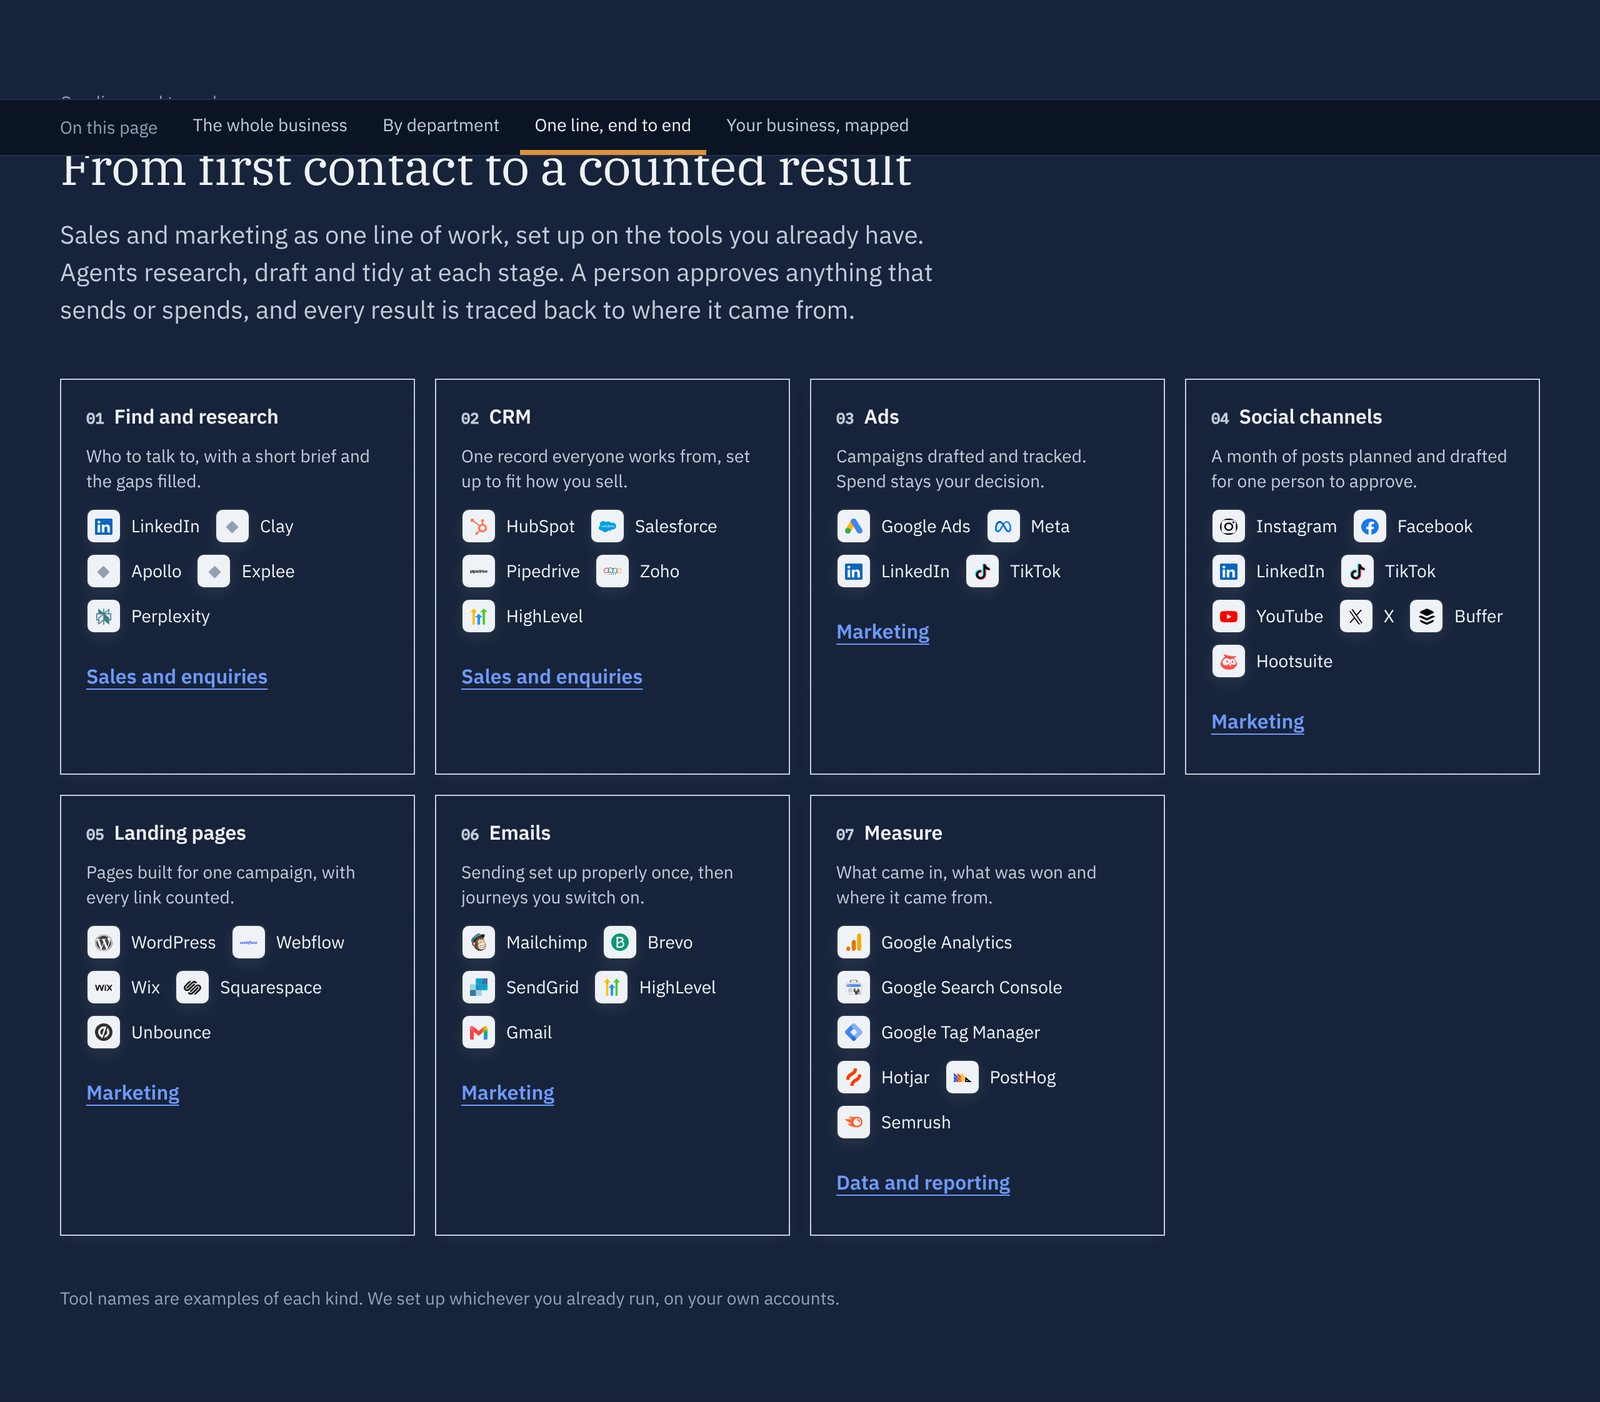
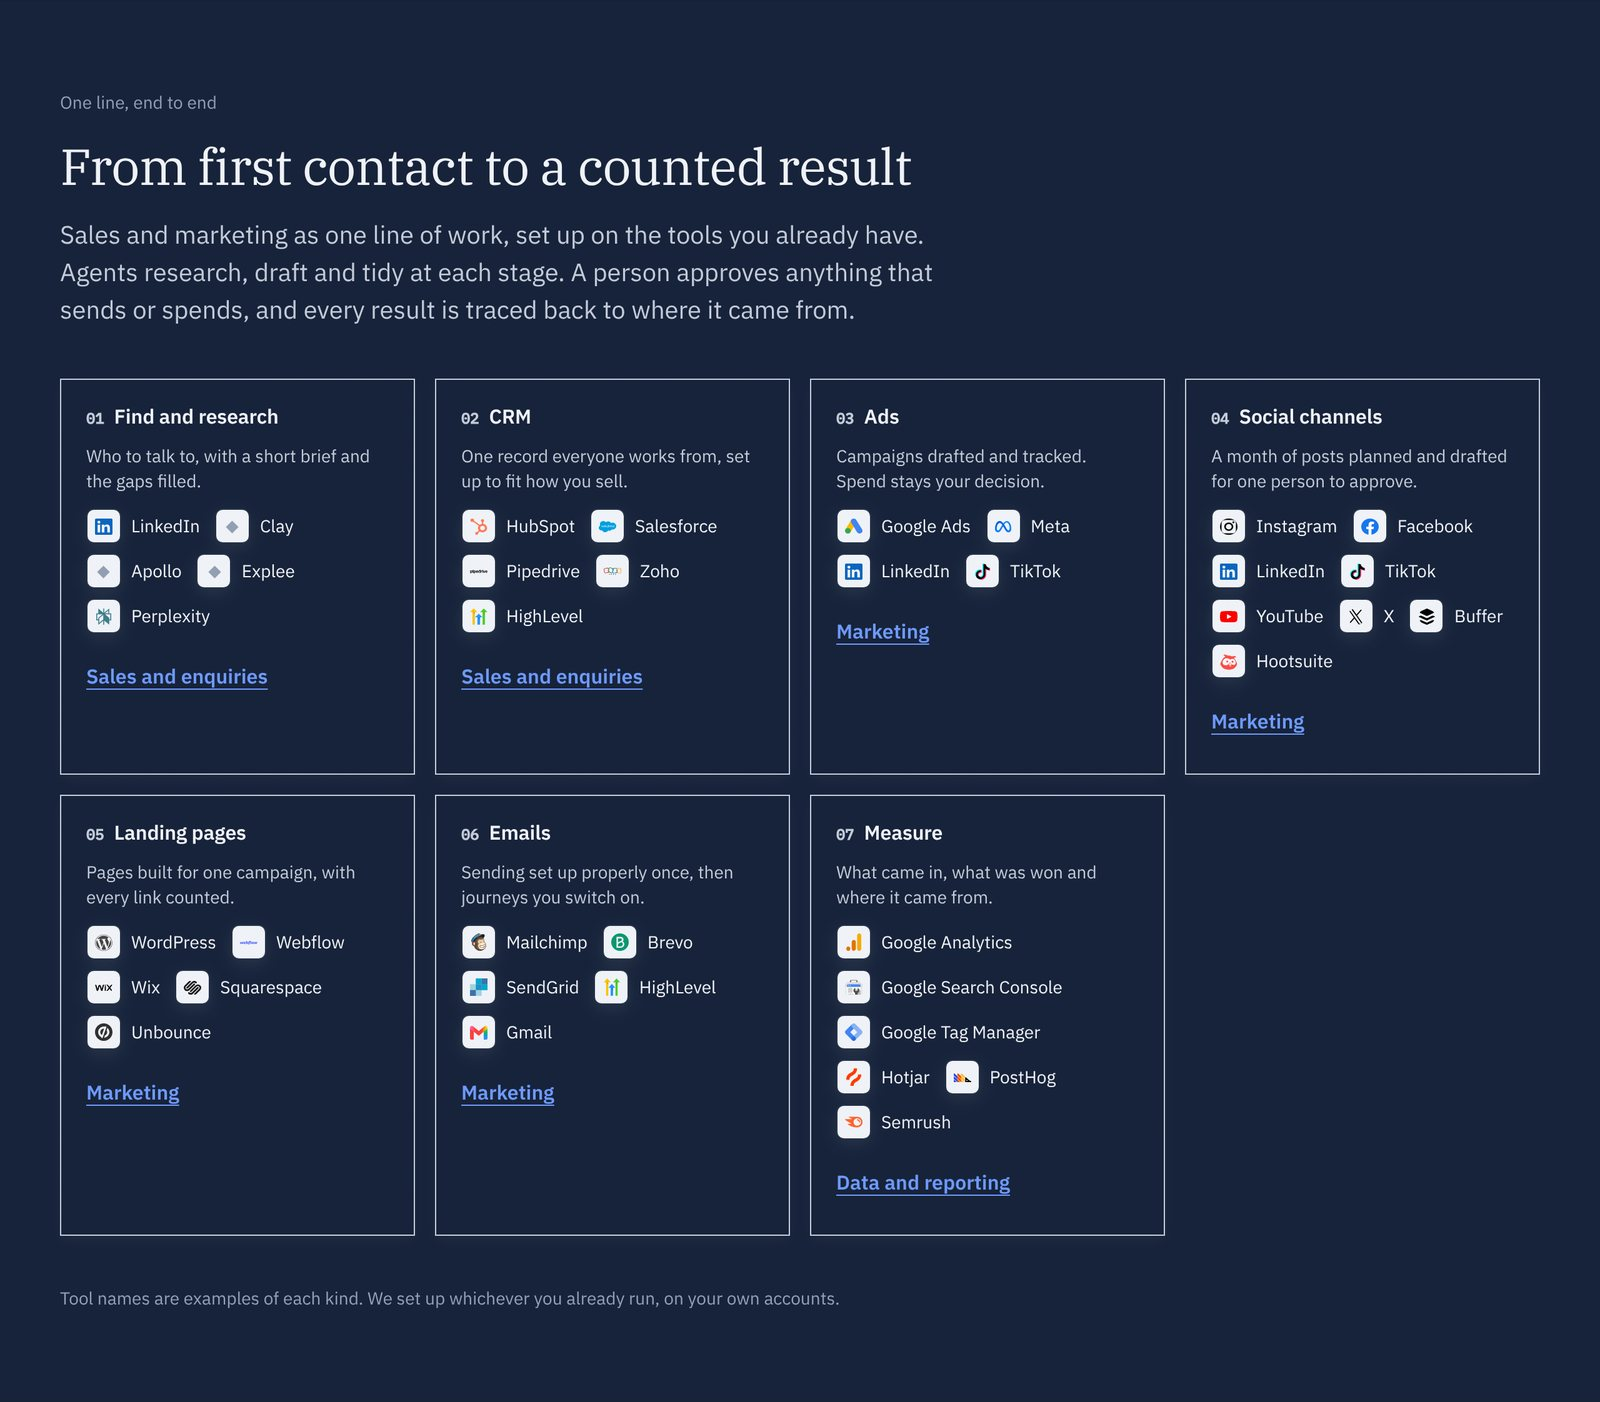
Fix review points: recapture sales line clear of the sticky bar, tidy library still
- line-light/dark recaptured with the page's sticky bar hidden
- library still no longer shows the four-ways headings over the mark grid
- Palantir Foundry moved from 'what we build with' to 'works with'
- unused howwework images removed

Claude-Session: https://claude.ai/code/session_01XzJf6VhYzShPaPVNy4qVhn

Changed region(s): [[0.25, 0.0613, 0.5625, 0.1227], [0.0312, 0.0613, 0.2188, 0.1227]]

diff --git a/README.md b/README.md
@@ -162,13 +162,13 @@ From first contact to a counted result: find and research, CRM, ads, social chan
 | Models | Anthropic API; OpenRouter (one key to many models, with a spending cap) |
 | Workflows | n8n |
 | Traces, scores and cost | Langfuse |
-| Data | Palantir Foundry; your own exports and APIs |
+| Data | Your own exports and APIs |
 | Code and checks | GitHub, GitHub Actions, Python, Node.js, Playwright |
 | Hosting | Cloudflare, DigitalOcean |
 | Alerts | ntfy (phone alerts) |
 | Images and video | Higgsfield, Blender |
 
-We connect to the systems you already run, named by type on our site: CRM, orders, spreadsheets, accounts, bookings.
+We connect to the systems you already run, named by type on our site: CRM, orders, spreadsheets, accounts, bookings. We also work with Palantir Foundry where a business runs it.
 
 ## How we run our own business
 
